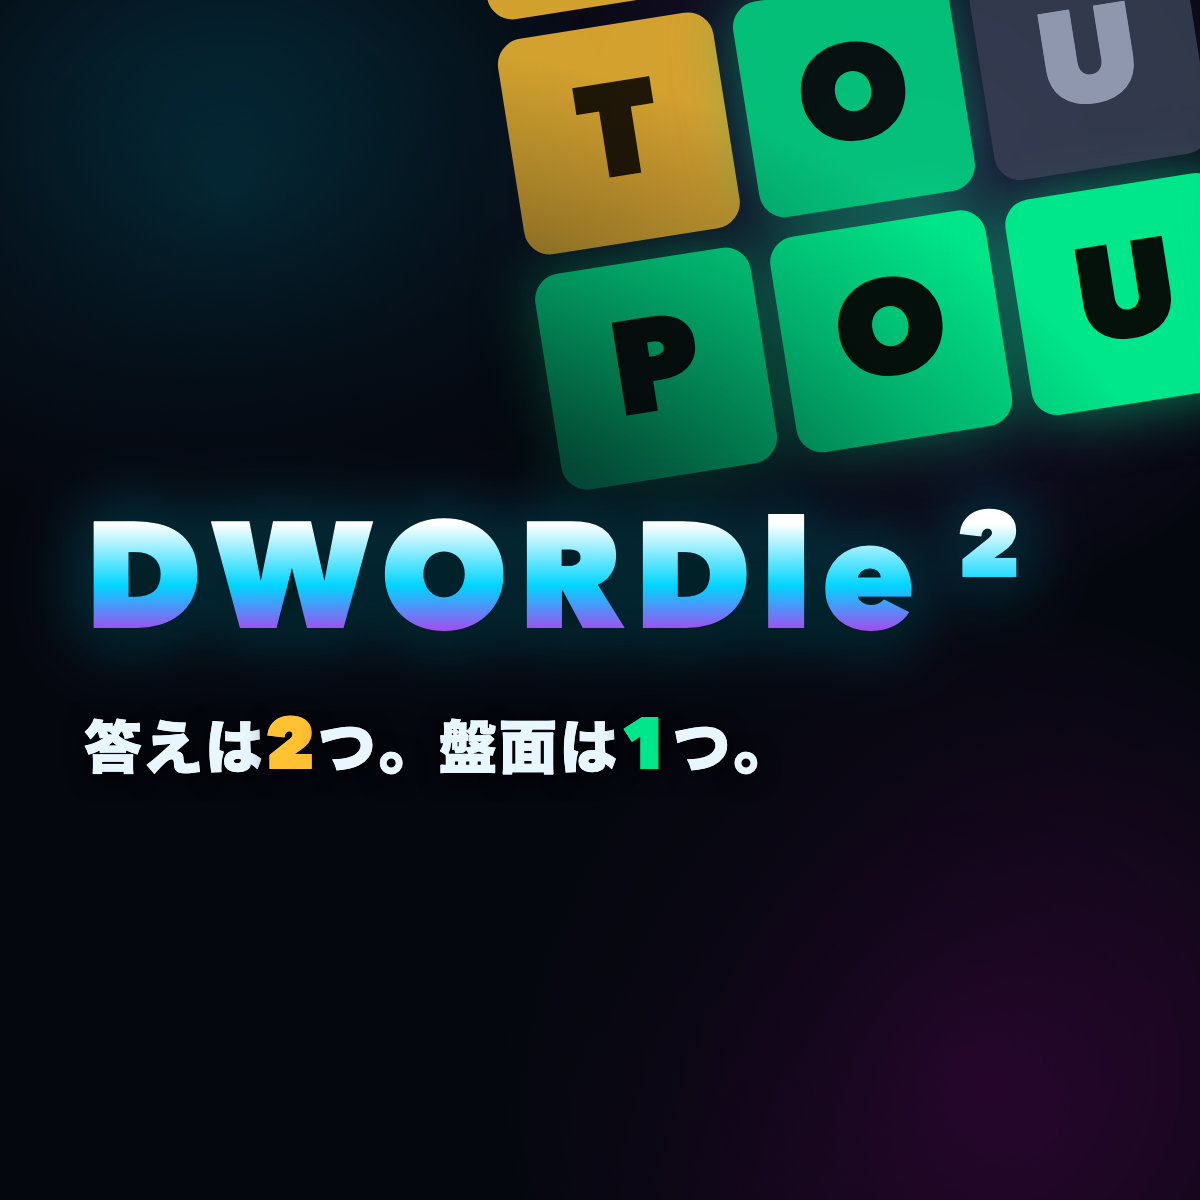
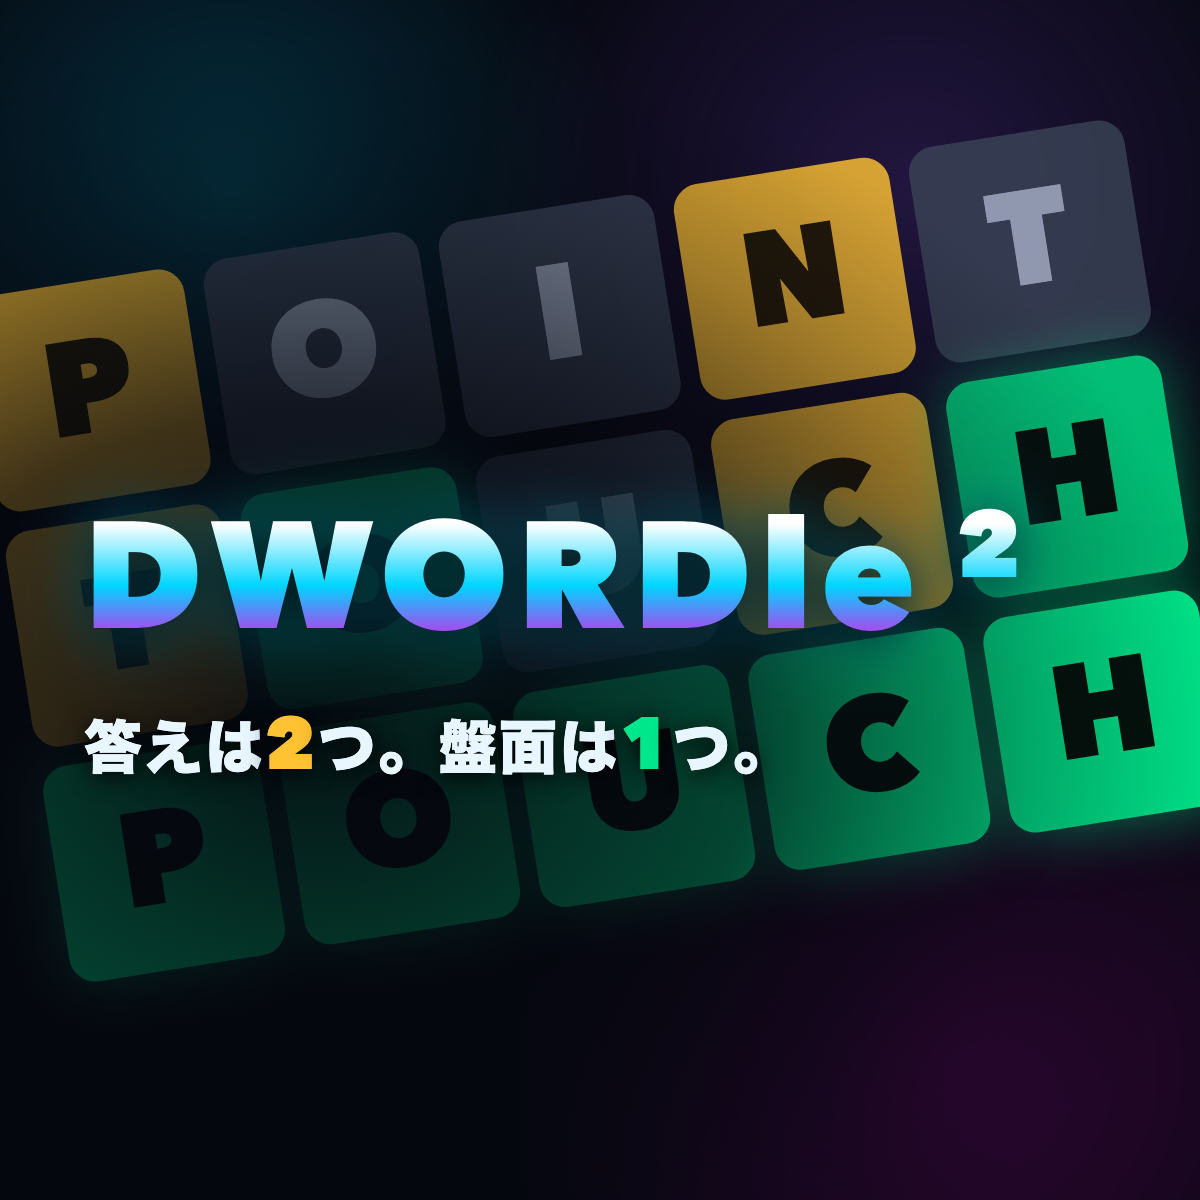
ogp更新

diff --git a/DWORDle2/tools/og-square.html b/DWORDle2/tools/og-square.html
@@ -48,8 +48,8 @@
      下段の全緑 POUCH 行が右上を横切るように大きくはみ出させる */
   .board {
     position: absolute;
-    left: 42%;
-    top: -24%;
+    left: 1%;
+    top: 17%;
     transform: rotate(var(--board-rotate));
     display: grid;
     gap: var(--tile-gap);